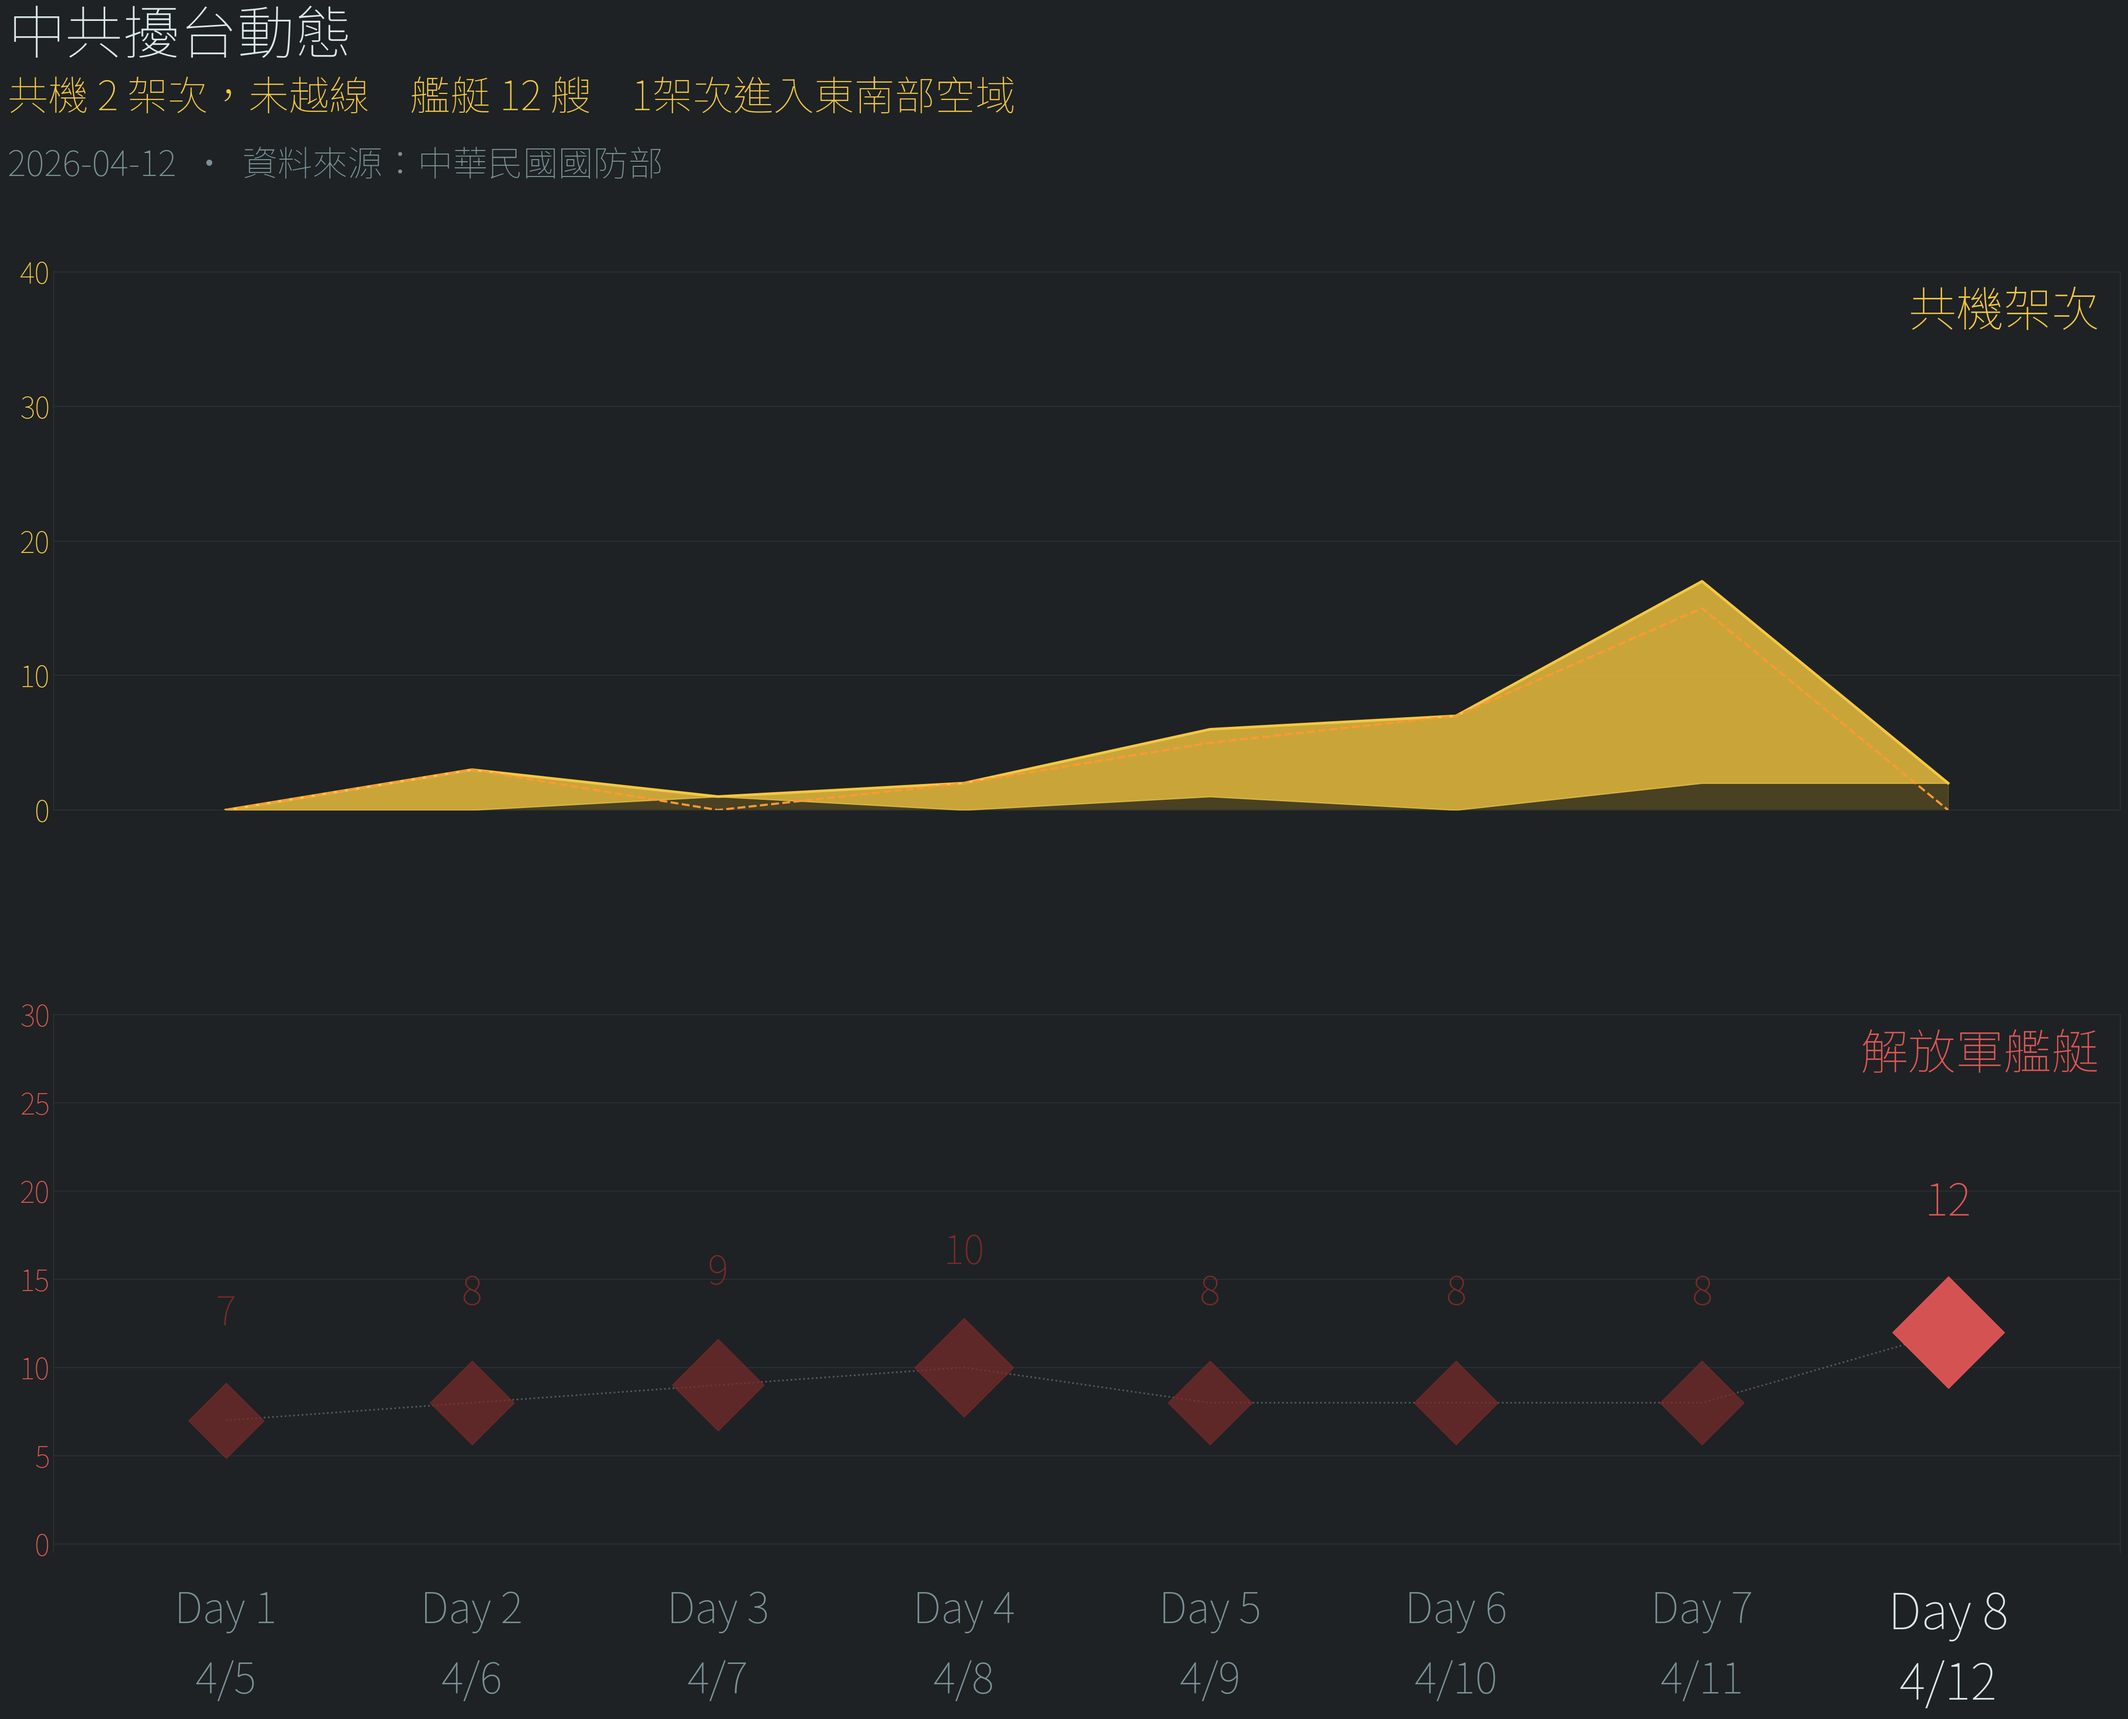
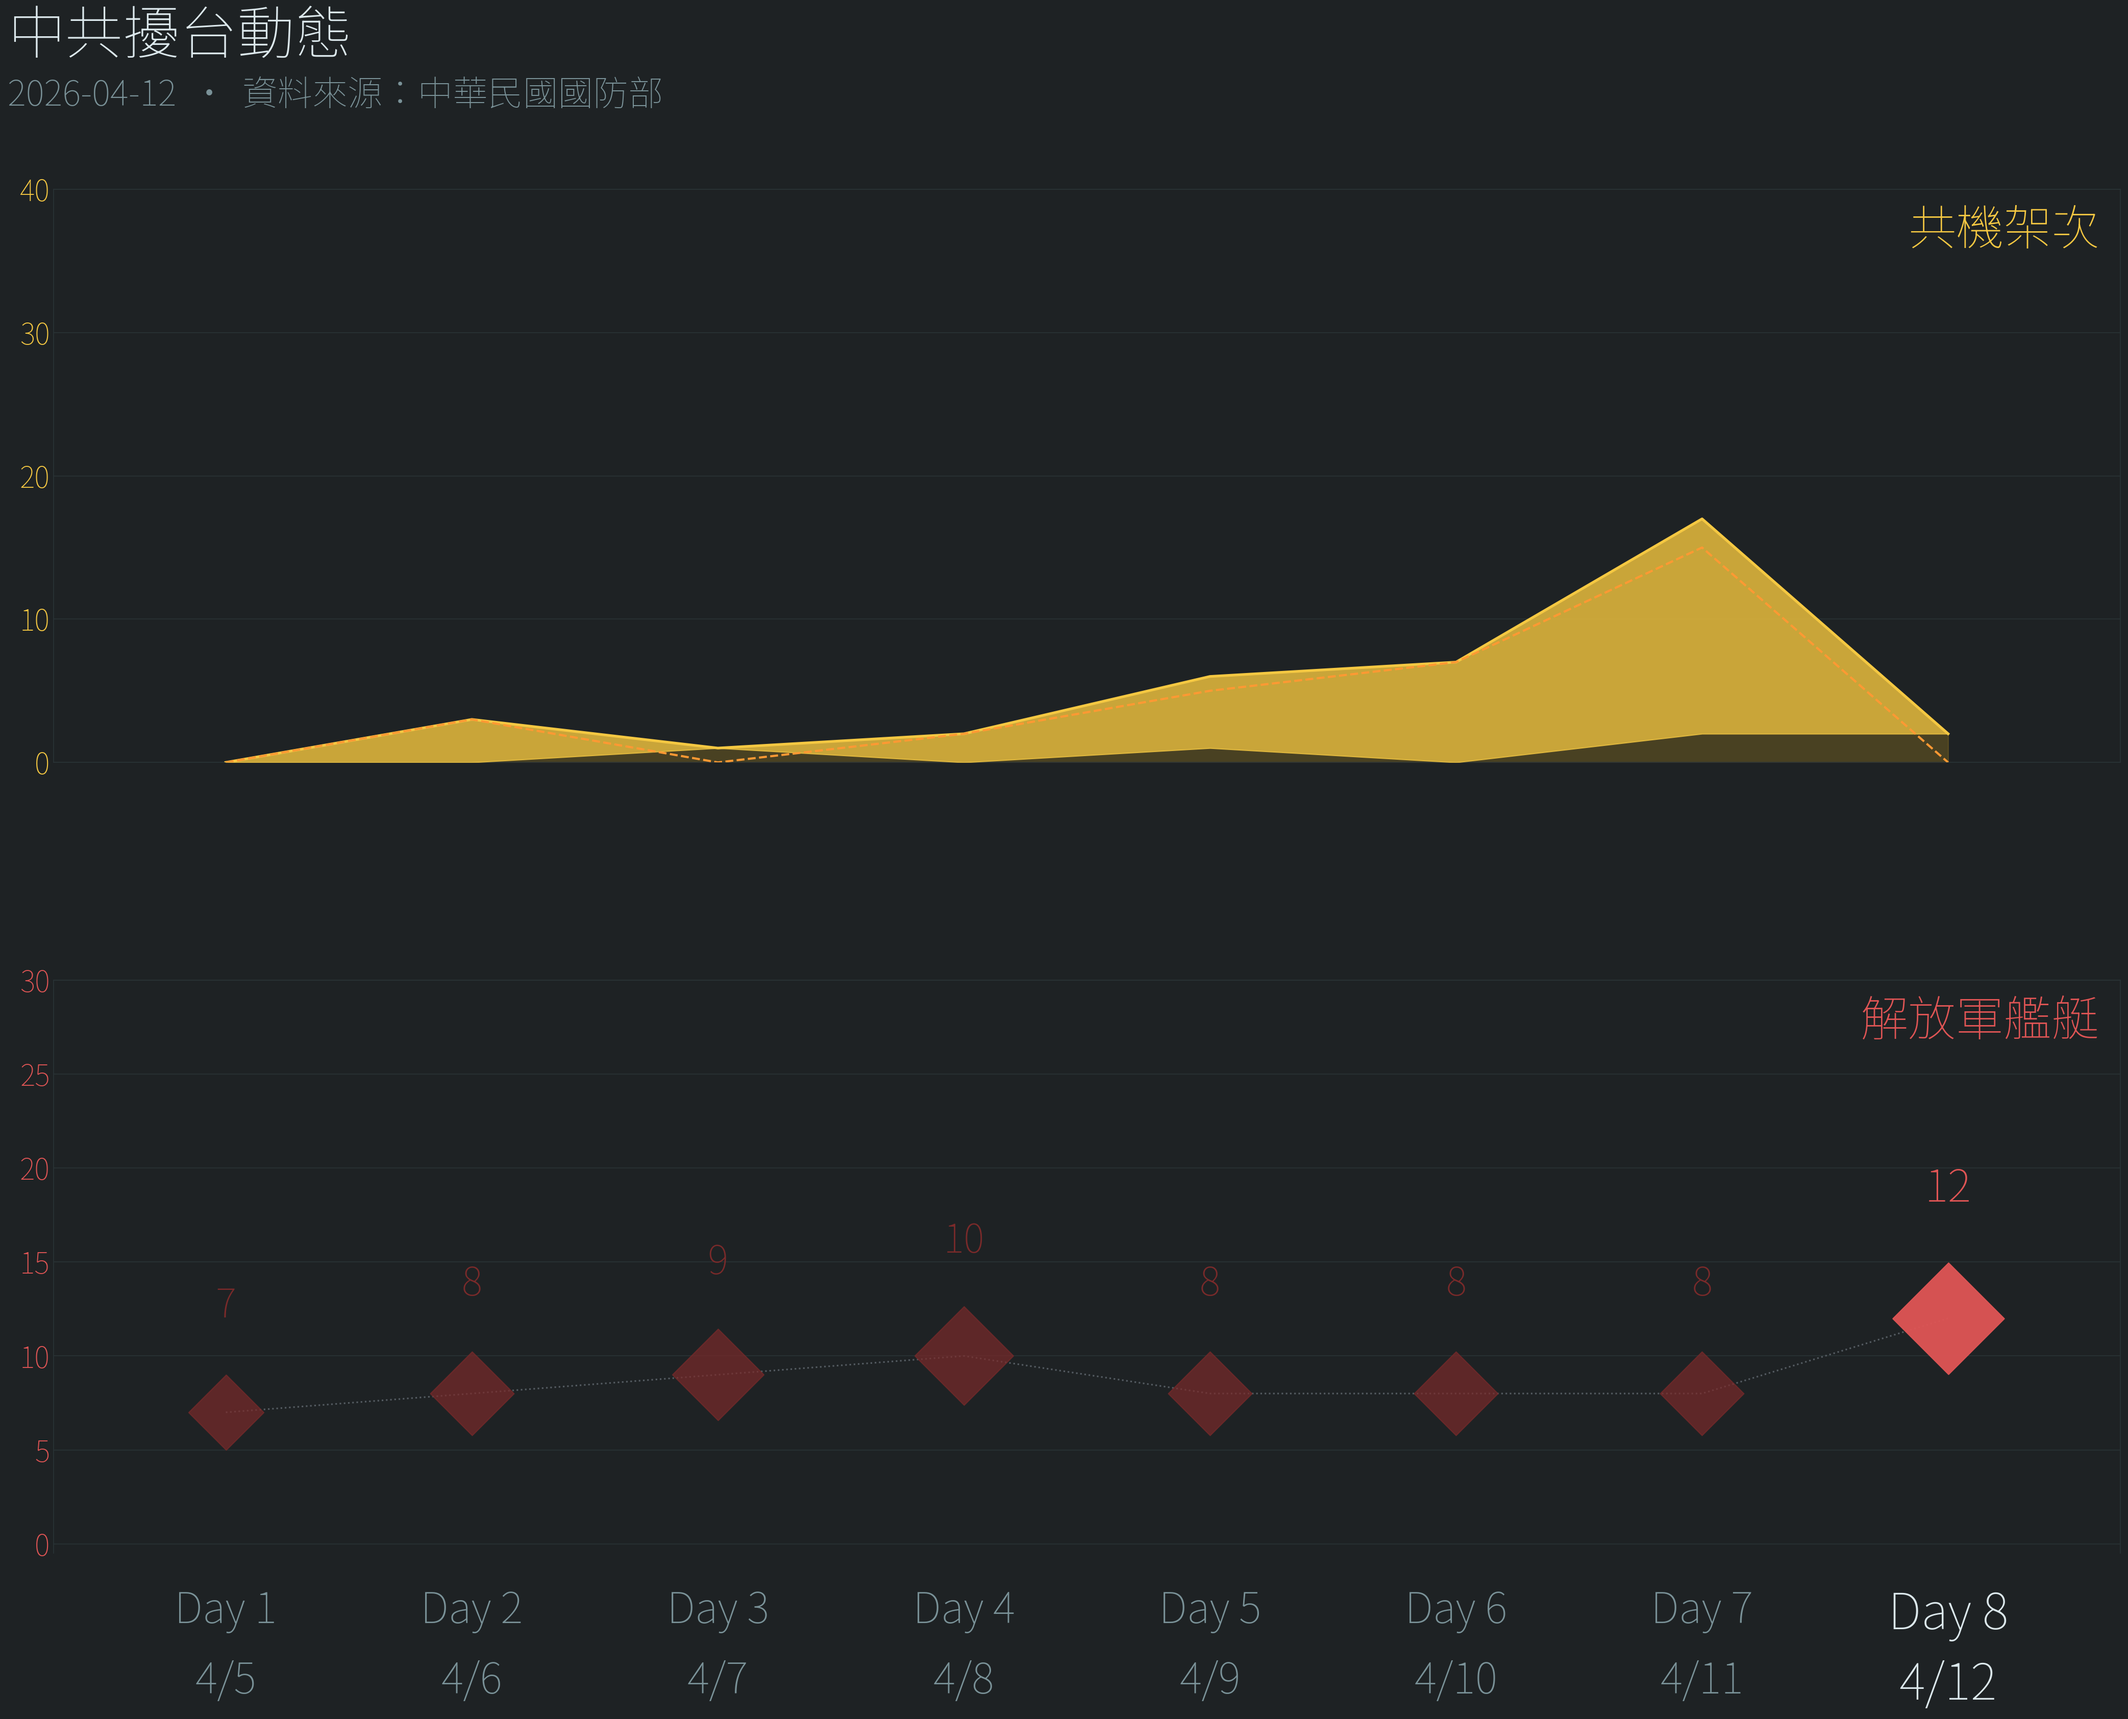
fix: 移除圖表obs文字、全文粗體tick標籤、split chart頂部加高

diff --git a/scripts/chart_daily.py b/scripts/chart_daily.py
@@ -190,7 +190,7 @@ def make_split_panel_chart(df, today_date=None, obs_text=None, out_path=None):
     fig = plt.figure(figsize=(30, 27), facecolor=BG)
     gs  = gridspec.GridSpec(2, 1,
                             left=0.06, right=0.96,
-                            top=0.84,  bottom=0.22,
+                            top=0.88,  bottom=0.22,
                             hspace=0.38)
     ax_ac = fig.add_subplot(gs[0])
     ax_sh = fig.add_subplot(gs[1])
@@ -210,9 +210,12 @@ def make_split_panel_chart(df, today_date=None, obs_text=None, out_path=None):
     ylim_ac_raw = max(ac_max * 1.8, 4)
     step_ac     = _ystep(ylim_ac_raw)
     ylim_ac     = _ceil_s(ylim_ac_raw, step_ac)
+    ticks_ac = list(range(0, ylim_ac + 1, step_ac))
     ax_ac.set_ylim(0, ylim_ac)
-    ax_ac.set_yticks(range(0, ylim_ac + 1, step_ac))
-    ax_ac.tick_params(axis='y', colors=AC_BRIGHT, labelsize=27)
+    ax_ac.set_yticks(ticks_ac)
+    ax_ac.set_yticklabels([str(t) for t in ticks_ac],
+                          fontsize=27, fontweight='bold', color=AC_BRIGHT, fontfamily=FONT)
+    ax_ac.tick_params(axis='y', length=0)
 
     ax_ac.fill_between(xs, 0, ac_arr, color=AC_DIM, alpha=0.4, zorder=2)
     ax_ac.fill_between(xs, nc_arr, ac_arr, color=AC_BRIGHT, alpha=0.75, zorder=3)
@@ -229,9 +232,12 @@ def make_split_panel_chart(df, today_date=None, obs_text=None, out_path=None):
     ylim_sh_raw = max(sh_max * 2.2, sh_max + 5, 5)
     step_sh     = _ystep(ylim_sh_raw)
     ylim_sh_top = _ceil_s(ylim_sh_raw, step_sh)
+    ticks_sh = list(range(0, ylim_sh_top + 1, step_sh))
     ax_sh.set_ylim(-0.5, ylim_sh_top)   # -0.5 讓 y=0 的菱形不貼軸
-    ax_sh.set_yticks(range(0, ylim_sh_top + 1, step_sh))
-    ax_sh.tick_params(axis='y', colors=SH_BRIGHT, labelsize=27)
+    ax_sh.set_yticks(ticks_sh)
+    ax_sh.set_yticklabels([str(t) for t in ticks_sh],
+                          fontsize=27, fontweight='bold', color=SH_BRIGHT, fontfamily=FONT)
+    ax_sh.tick_params(axis='y', length=0)
     ax_sh.spines['bottom'].set_visible(False)  # 隱藏底部 spine，避免與 y=0 grid 重疊
 
     # connector dotted line
@@ -270,28 +276,24 @@ def make_split_panel_chart(df, today_date=None, obs_text=None, out_path=None):
 
         fs  = 47 if is_today else 40
         fc  = TXTDARK if is_today else TXTSUB
-        fw  = 'bold' if is_today else 'normal'
 
         fig.text(xf, yf - 0.022, f'Day {i + 1}',
                  ha='center', va='top',
-                 color=fc, fontsize=fs, fontweight=fw, fontfamily=FONT)
+                 color=fc, fontsize=fs, fontweight='bold', fontfamily=FONT)
         fig.text(xf, yf - 0.022 - 0.034, date_labels[i],
                  ha='center', va='top',
-                 color=fc, fontsize=fs, fontweight=fw, fontfamily=FONT)
+                 color=fc, fontsize=fs, fontweight='bold', fontfamily=FONT)
 
-    # ── 標題區（修改1：移除 Day N）──
+    # ── 標題區 ──
     source_str = (f"{today_dt.strftime('%Y-%m-%d')}  ·  "
                   f"資料來源：中華民國國防部")
 
     fig.text(0.04, 0.968, '中共擾台動態',
              ha='left', va='top', color=TXTDARK,
              fontsize=54, fontweight='bold', fontfamily=FONT)
-    fig.text(0.04, 0.934, obs_text,
-             ha='left', va='top', color=AC_BRIGHT,
-             fontsize=38, fontweight='bold', fontfamily=FONT)
-    fig.text(0.04, 0.900, source_str,
+    fig.text(0.04, 0.934, source_str,
              ha='left', va='top', color=TXTSUB,
-             fontsize=33, fontfamily=FONT)
+             fontsize=33, fontweight='bold', fontfamily=FONT)
 
     if out_path is None:
         out_path = OUTPUT_DIR / f"split_{today_date}.png"
@@ -401,9 +403,12 @@ def make_streak_chart(df, today_date=None, obs_text=None, out_path=None):
     ylim_ac_raw = max(ac_max * 1.45, 5)
     step_ac     = _ystep(ylim_ac_raw)
     ylim_ac     = _ceil_s(ylim_ac_raw, step_ac)
+    sticks_ac   = list(range(0, ylim_ac + 1, step_ac))
     ax_ac.set_ylim(0, ylim_ac)
-    ax_ac.set_yticks(range(0, ylim_ac + 1, step_ac))
-    ax_ac.tick_params(axis='y', colors=AC_BRIGHT, labelsize=22)
+    ax_ac.set_yticks(sticks_ac)
+    ax_ac.set_yticklabels([str(t) for t in sticks_ac],
+                          fontsize=22, fontweight='bold', color=AC_BRIGHT, fontfamily=FONT)
+    ax_ac.tick_params(axis='y', length=0)
     ax_ac.tick_params(axis='x', bottom=False, labelbottom=False)
 
     # silence 區間底色
@@ -457,9 +462,12 @@ def make_streak_chart(df, today_date=None, obs_text=None, out_path=None):
     ylim_sh_raw2 = max(sh_max * 1.8, sh_max + 5, 5)
     step_sh2     = _ystep(ylim_sh_raw2)
     ylim_sh2     = _ceil_s(ylim_sh_raw2, step_sh2)
+    sticks_sh2   = list(range(0, ylim_sh2 + 1, step_sh2))
     ax_sh.set_ylim(0, ylim_sh2)
-    ax_sh.set_yticks(range(0, ylim_sh2 + 1, step_sh2))
-    ax_sh.tick_params(axis='y', colors=SH_BRIGHT, labelsize=22)
+    ax_sh.set_yticks(sticks_sh2)
+    ax_sh.set_yticklabels([str(t) for t in sticks_sh2],
+                          fontsize=22, fontweight='bold', color=SH_BRIGHT, fontfamily=FONT)
+    ax_sh.tick_params(axis='y', length=0)
 
     # silence 區間底色（同飛機面板）
     for s, e in _silence_runs(sorties, min_days=2):
@@ -528,16 +536,14 @@ def make_streak_chart(df, today_date=None, obs_text=None, out_path=None):
                transform=ax_sh.transAxes, ha='right', va='top',
                color=SH_BRIGHT, fontsize=48, fontweight='bold', fontfamily=FONT)
 
-    # ── X 軸：選擇性顯示，今日 bold ──
+    # ── X 軸：選擇性顯示，全粗體，今日亮色 ──
     show_ticks = [i for i in range(n) if _xaxis_show(i, n, dates, today_date)]
     ax_sh.set_xticks(show_ticks)
     ax_sh.set_xticklabels([date_labels[i] for i in show_ticks],
-                          fontsize=28, fontfamily=FONT)
+                          fontsize=28, fontweight='bold', fontfamily=FONT)
     for tick, i in zip(ax_sh.get_xticklabels(), show_ticks):
-        is_today = (dates[i] == today_date)
-        tick.set_color(TXTDARK if is_today else TXTSUB)
-        tick.set_fontweight('bold' if is_today else 'normal')
-    ax_sh.tick_params(axis='x', pad=6)
+        tick.set_color(TXTDARK if dates[i] == today_date else TXTSUB)
+    ax_sh.tick_params(axis='x', pad=6, length=0)
 
     # ── 標題區（只保留主標題行）──
     fig.text(0.04, 0.964, '中共擾台動態 — 2026 年至今',
